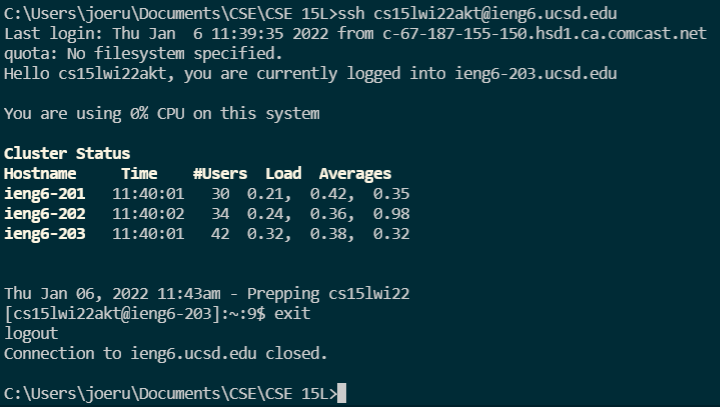
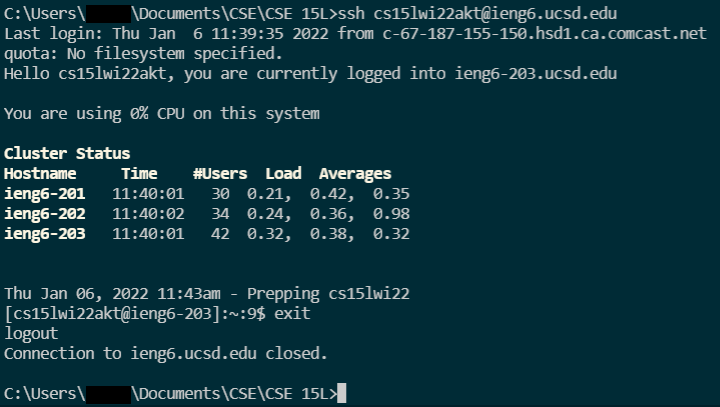
Privacy on images

Changed region(s): [[0.1222, 0.9435, 0.1833, 1.0], [0.1222, 0.0, 0.1833, 0.059]]

diff --git a/lab-report-1-week-2.md b/lab-report-1-week-2.md
@@ -4,15 +4,16 @@
 ## Installing VSCode
 Visit [code.visualstudio.com](https://code.visualstudio.com/), download & install Visual Studio Code on your device. When complete, open VSCode if it does not automatically. The first thing you should see is the *Getting Started* page, but after clearing it you should see a screen like this:   
 (The colors may be different depending on your display settings in VSCode)   
-![VSCode Getting Started](VSCodeStart.png)    
+![VSCode Getting Started](VSCodeStart.png)   
+   
 ![VSCode Empty](VSCodeEmpty.png)   
 
 ## Remotely Connecting
 **For Windows Users**, Before actually connecting to a server, another install is required. Install OpenSSH by opening the Settings, navigating to Apps > Apps & Features, and selecting Optional Features. From there find Open SSH Client & Open SSH Server and install them if they aren't already installed.  
 
-With SSH installed, in VSCode, open a new terminal by finding Terminal > New Terminal at the top of the window. Alternatively, type 'cmd' into the Windows search bar to open the command prompt terminal.  
-Next you are going to log in with your UCSD course specific username which can be found [here](https://sdacs.ucsd.edu/~icc/index.php). After entering your credentials, you should see under 'Additional Accounts' a list of accounts registered with your UCSD account. These are what we'll be using to connect remotely. You may need to change your password before you can successfully login remotely (Note that this will change your TritonLink password as well). With your username, enter the following command:   
-`> ssh <username>@ieng6.ucsd.edu`   
+With SSH installed, in VSCode, open a new terminal by finding Terminal > New Terminal at the top of the window. Alternatively, type `cmd` into the Windows search bar to open the command prompt terminal.  
+Next you are going to log in with your UCSD course specific username which can be found [here](https://sdacs.ucsd.edu/~icc/index.php). After entering your credentials, you should see under *Additional Accounts* a list of accounts registered with your UCSD account. These are what we'll be using to connect remotely. You may need to change your password before you can successfully login remotely (Note that this will change your TritonLink password as well). With your username, enter the following command:   
+>`ssh <username>@ieng6.ucsd.edu`   
 ![Remote Login](passwordLogin.png)
 Type your password, you won't be able to see the password on the command line so don't panic thinking your inputs aren't being read.   
 And with your password entered, you should now be connected to a remote server. In this case, that server is one of the computers in the CSE basement.
@@ -22,7 +23,7 @@ And with your password entered, you should now be connected to a remote server. 
 
 ## Moving Files with scp
 Similar to sending an email with file attachments, files can be sent between client and server with a secure copy. Type `scp`, followed by the file you wish to copy, and your account login, ending with `:~/`. All together it should look like this: 
-`> scp <filename> <username>@ieng6.ucsd.edu:~/`
+>`scp <filename> <username>@ieng6.ucsd.edu:~/`
 ![Secure Copy of a File](scp.png)
 
 ## Setting an SSH Key
